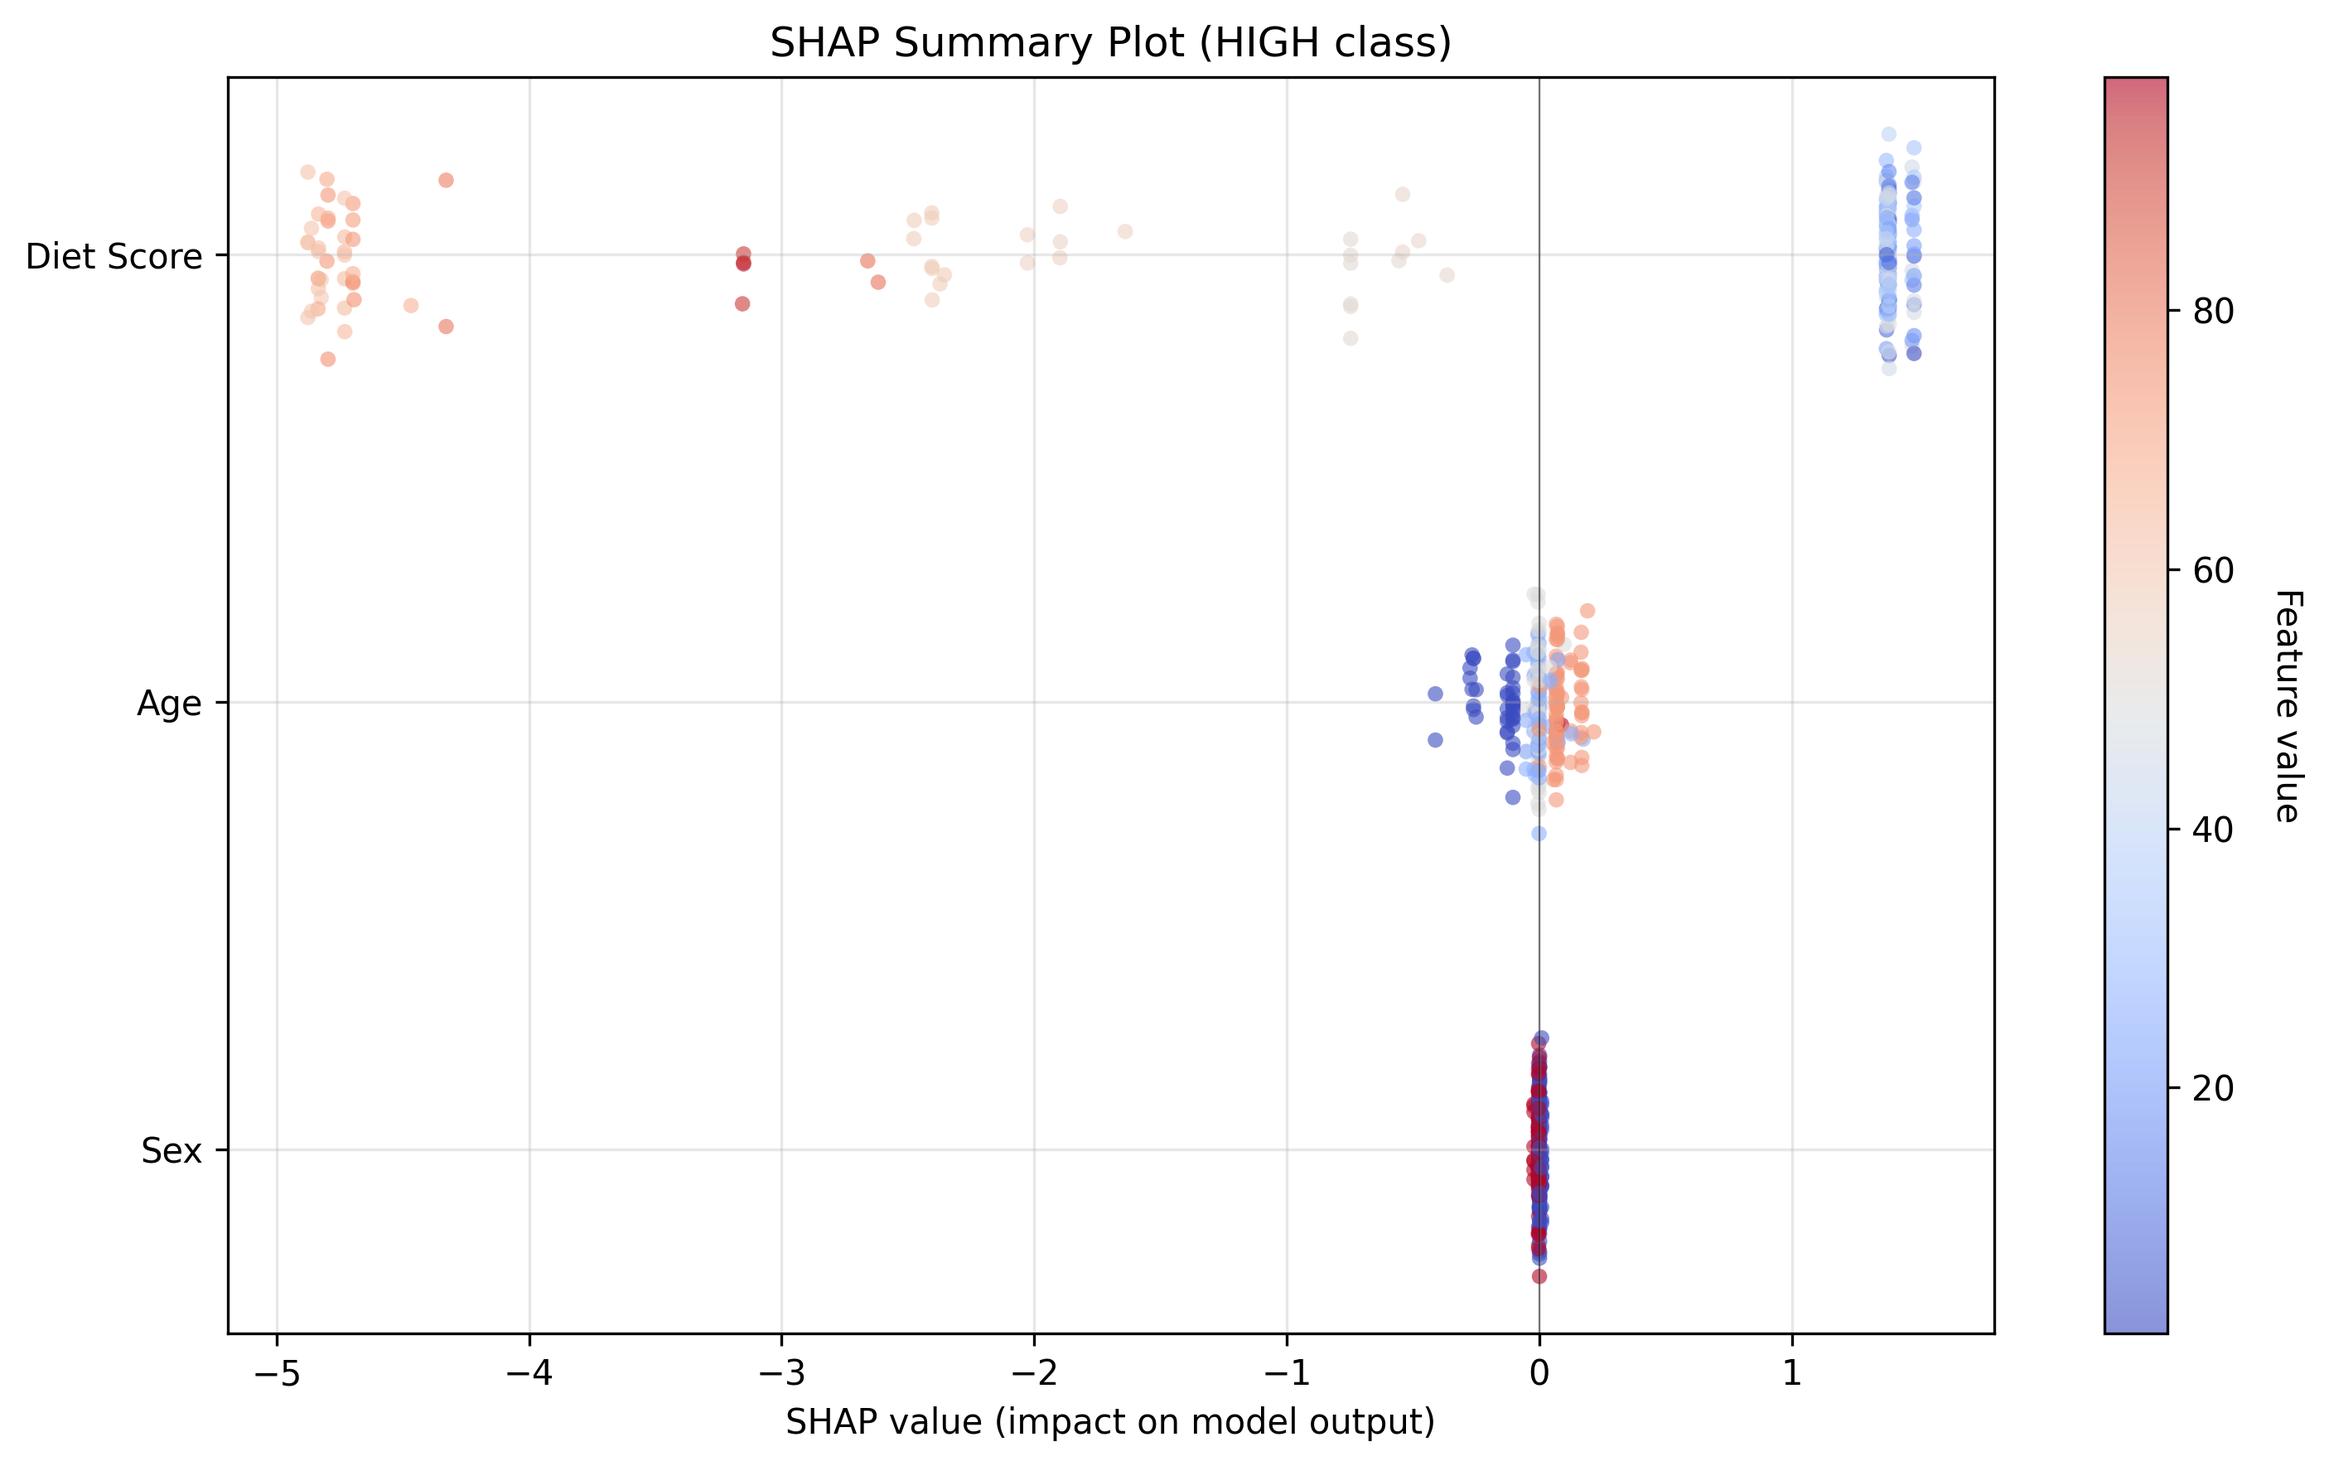
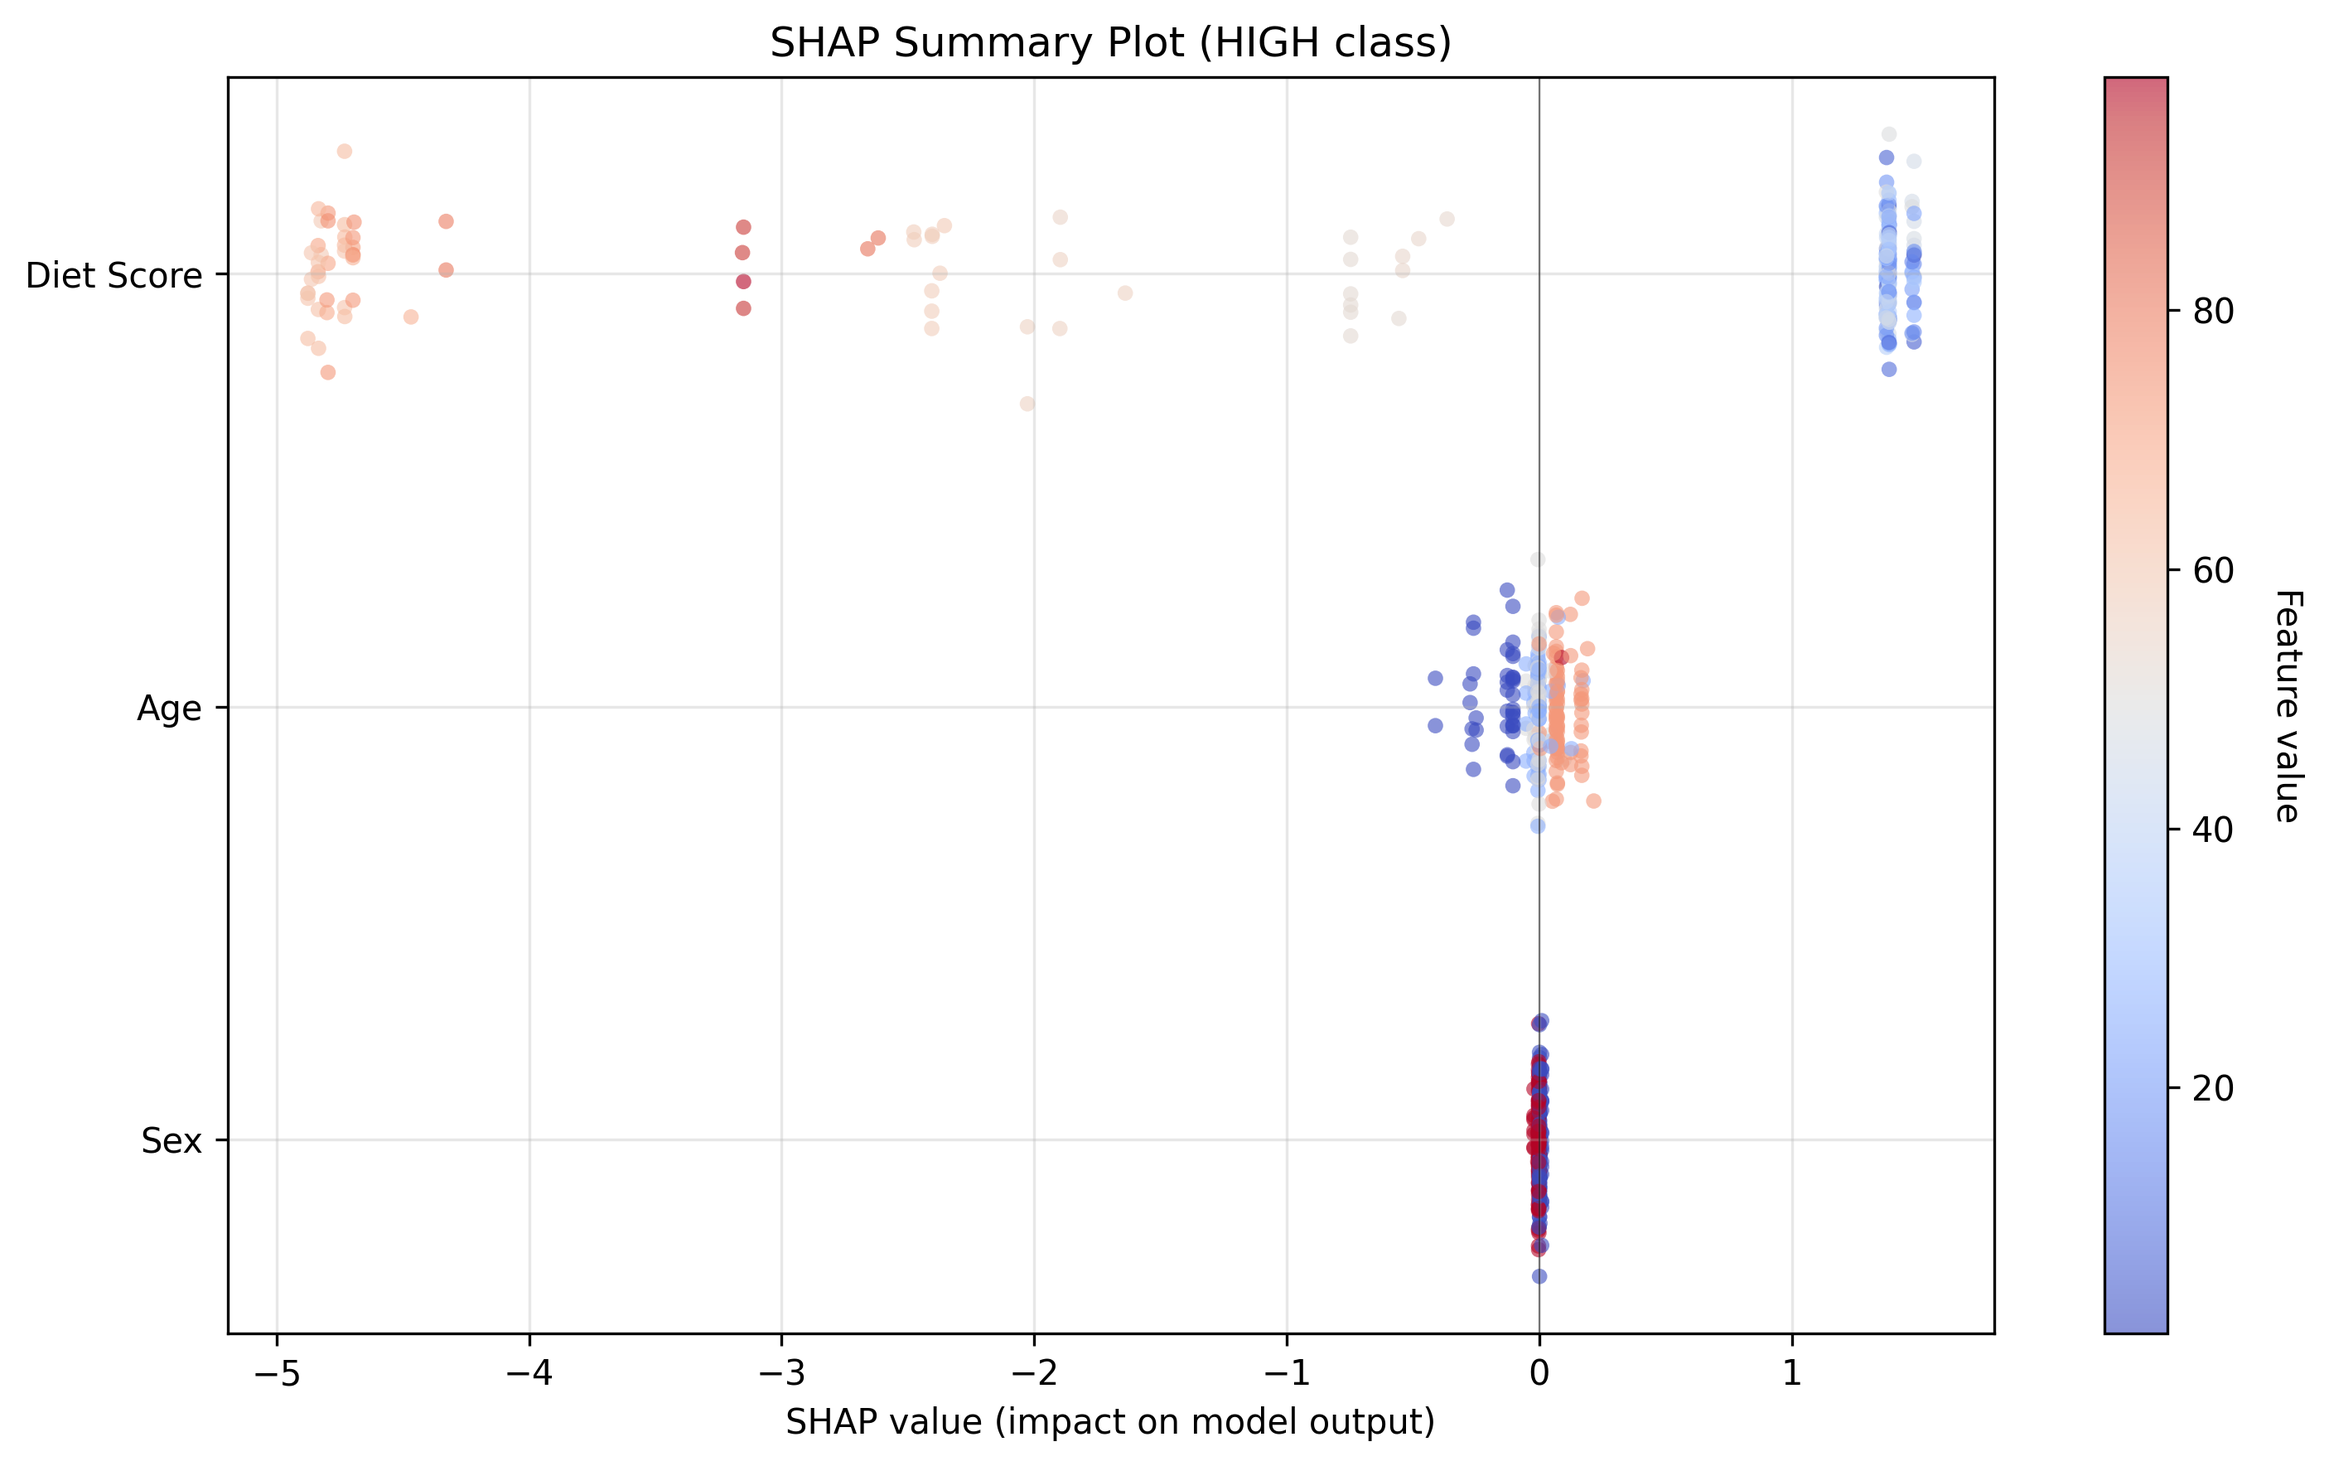
feat: add roc summary

diff --git a/evaluate_models.py b/evaluate_models.py
@@ -15,9 +15,11 @@ import matplotlib.pyplot as plt
 from sklearn.model_selection import train_test_split
 from sklearn.metrics import (
     accuracy_score,
+    auc,
     classification_report,
     confusion_matrix,
     ConfusionMatrixDisplay,
+    roc_curve,
 )
 
 try:
@@ -54,6 +56,16 @@ CONFUSION_MATRIX_IMG = "confusion_matrix.png"
 FEATURE_IMPORTANCE_CSV = "feature_importances.csv"
 FEATURE_IMPORTANCE_IMG = "feature_importance.png"
 SHAP_SUMMARY_IMG = "shap_summary.png"
+ROC_SUMMARY_CSV = "roc_auc_summary.csv"
+ROC_COMPARISON_IMG = "roc_comparison.png"
+
+# Filename slug per model label (used for per-model ROC plots)
+ROC_PLOT_SLUGS = {
+    "Baseline LightGBM": "lgb_baseline",
+    "Tuned LightGBM": "lgb_tuned",
+    "Baseline XGBoost": "xgb_baseline",
+    "Tuned XGBoost": "xgb_tuned",
+}
 
 
 def load_dataset():
@@ -350,6 +362,135 @@ def save_shap_summary_plot(model, X_test, feature_names, output_path):
         plt.close('all')  # Clean up any partial plots
 
 
+def get_class_order(model, label_encoder=None):
+    """Return the list of class labels in the order corresponding to predict_proba columns."""
+    if not hasattr(model, "classes_"):
+        return None
+    classes = model.classes_
+    if label_encoder is not None:
+        classes = label_encoder.inverse_transform(classes)
+    return list(classes)
+
+
+def compute_one_vs_rest_roc(model, X_test, y_test, label_encoder=None):
+    """Compute one-vs-rest ROC curves and AUCs for every class the model knows.
+
+    Returns dict mapping class label -> {"fpr": ..., "tpr": ..., "auc": ..., "support": int}.
+    Returns None if the model lacks predict_proba.
+    """
+    if not hasattr(model, "predict_proba"):
+        return None
+
+    proba = model.predict_proba(X_test)
+    class_order = get_class_order(model, label_encoder=label_encoder)
+    if class_order is None or proba.shape[1] != len(class_order):
+        return None
+
+    y_arr = np.asarray(y_test)
+    results = {}
+    for col_idx, cls in enumerate(class_order):
+        y_binary = (y_arr == cls).astype(int)
+        support = int(y_binary.sum())
+        if support == 0 or support == len(y_binary):
+            # ROC undefined when one of the two binary classes is empty
+            continue
+        fpr, tpr, _ = roc_curve(y_binary, proba[:, col_idx])
+        results[str(cls)] = {
+            "fpr": fpr,
+            "tpr": tpr,
+            "auc": float(auc(fpr, tpr)),
+            "support": support,
+        }
+    return results
+
+
+def save_per_model_roc_plot(roc_data, output_path, title):
+    """Plot one-vs-rest ROC curves (all classes) for a single model on one figure."""
+    if not roc_data:
+        return
+    fig, ax = plt.subplots(figsize=(7, 6))
+    for cls in sorted(roc_data.keys()):
+        d = roc_data[cls]
+        ax.plot(d["fpr"], d["tpr"], lw=2, label=f"{cls} (AUC = {d['auc']:.3f}, n = {d['support']})")
+    ax.plot([0, 1], [0, 1], "k--", lw=1, alpha=0.5, label="Random (AUC = 0.500)")
+    ax.set_xlim(-0.01, 1.01)
+    ax.set_ylim(-0.01, 1.05)
+    ax.set_xlabel("False Positive Rate (1 - Specificity)")
+    ax.set_ylabel("True Positive Rate (Sensitivity)")
+    ax.set_title(title)
+    ax.legend(loc="lower right", fontsize=9)
+    ax.grid(True, alpha=0.3)
+    plt.tight_layout()
+    plt.savefig(output_path, dpi=300, bbox_inches="tight")
+    plt.close()
+    print(f"ROC plot saved to {output_path}")
+
+
+def save_roc_comparison_plot(roc_lgb, roc_xgb, output_path, label_lgb, label_xgb):
+    """Compare two models' ROC curves side-by-side, one subplot per class."""
+    if not roc_lgb or not roc_xgb:
+        print("Skipping ROC comparison plot (missing data for one or both models).")
+        return
+
+    classes = sorted(set(roc_lgb.keys()) & set(roc_xgb.keys()))
+    if not classes:
+        print("Skipping ROC comparison plot (no overlapping classes).")
+        return
+
+    n = len(classes)
+    cols = 2
+    rows = (n + 1) // 2
+    fig, axes = plt.subplots(rows, cols, figsize=(11, 5 * rows), squeeze=False)
+    for i, cls in enumerate(classes):
+        ax = axes[i // cols][i % cols]
+        d_lgb = roc_lgb[cls]
+        d_xgb = roc_xgb[cls]
+        ax.plot(d_lgb["fpr"], d_lgb["tpr"], lw=2,
+                label=f"{label_lgb} (AUC = {d_lgb['auc']:.3f})", color="#1f77b4")
+        ax.plot(d_xgb["fpr"], d_xgb["tpr"], lw=2,
+                label=f"{label_xgb} (AUC = {d_xgb['auc']:.3f})", color="#d62728")
+        ax.plot([0, 1], [0, 1], "k--", lw=1, alpha=0.5)
+        ax.set_xlim(-0.01, 1.01)
+        ax.set_ylim(-0.01, 1.05)
+        ax.set_xlabel("False Positive Rate")
+        ax.set_ylabel("True Positive Rate")
+        ax.set_title(f"Class: {cls} (n = {d_lgb['support']})")
+        ax.legend(loc="lower right", fontsize=9)
+        ax.grid(True, alpha=0.3)
+
+    # Hide any unused subplot
+    for j in range(n, rows * cols):
+        axes[j // cols][j % cols].axis("off")
+
+    plt.suptitle(f"ROC Comparison: {label_lgb} vs. {label_xgb} (one-vs-rest)", y=1.0)
+    plt.tight_layout()
+    plt.savefig(output_path, dpi=300, bbox_inches="tight")
+    plt.close()
+    print(f"ROC comparison plot saved to {output_path}")
+
+
+def build_roc_summary_rows(label, roc_data, total_support):
+    """Build per-class + macro/weighted summary rows for a single model."""
+    if not roc_data:
+        return []
+    rows = []
+    for cls in sorted(roc_data.keys()):
+        d = roc_data[cls]
+        rows.append({
+            "model": label,
+            "class": cls,
+            "auc": round(d["auc"], 4),
+            "support": d["support"],
+        })
+    aucs = np.array([d["auc"] for d in roc_data.values()])
+    supports = np.array([d["support"] for d in roc_data.values()])
+    macro = float(aucs.mean())
+    weighted = float(np.average(aucs, weights=supports)) if supports.sum() > 0 else float("nan")
+    rows.append({"model": label, "class": "MACRO", "auc": round(macro, 4), "support": total_support})
+    rows.append({"model": label, "class": "WEIGHTED", "auc": round(weighted, 4), "support": total_support})
+    return rows
+
+
 def main():
     X, y = load_dataset()
 
@@ -414,6 +555,52 @@ def main():
 
     shap_path = os.path.join(OUTPUT_DIR, SHAP_SUMMARY_IMG)
     save_shap_summary_plot(primary_result["model"], X_test, feature_names, shap_path)
+
+    # ----- ROC / AUC analysis (one-vs-rest, all models) -----
+    print("\n===== ROC / AUC analysis =====")
+    summary_rows = []
+    roc_by_label = {}
+    total_support = len(y_test)
+    for label, result in evaluation_results.items():
+        roc_data = compute_one_vs_rest_roc(
+            result["model"], X_test, y_test, label_encoder=result.get("encoder")
+        )
+        if not roc_data:
+            print(f"Skipping {label} (no predict_proba or class mismatch).")
+            continue
+        roc_by_label[label] = roc_data
+
+        # Per-model ROC plot
+        slug = ROC_PLOT_SLUGS.get(label, label.lower().replace(" ", "_"))
+        plot_path = os.path.join(OUTPUT_DIR, f"roc_curves_{slug}.png")
+        save_per_model_roc_plot(roc_data, plot_path, f"ROC Curves (one-vs-rest) — {label}")
+
+        # Summary print
+        per_class = {cls: round(d["auc"], 4) for cls, d in roc_data.items()}
+        aucs = np.array([d["auc"] for d in roc_data.values()])
+        supports = np.array([d["support"] for d in roc_data.values()])
+        macro = aucs.mean()
+        weighted = np.average(aucs, weights=supports) if supports.sum() > 0 else float("nan")
+        print(f"{label}: per-class AUC = {per_class} | macro = {macro:.4f} | weighted = {weighted:.4f}")
+
+        summary_rows.extend(build_roc_summary_rows(label, roc_data, total_support))
+
+    if summary_rows:
+        summary_df = pd.DataFrame(summary_rows)
+        summary_csv = os.path.join(OUTPUT_DIR, ROC_SUMMARY_CSV)
+        summary_df.to_csv(summary_csv, index=False)
+        print(f"ROC AUC summary saved to {summary_csv}")
+
+    # Tuned LightGBM vs Tuned XGBoost head-to-head ROC comparison
+    if "Tuned LightGBM" in roc_by_label and "Tuned XGBoost" in roc_by_label:
+        comparison_path = os.path.join(OUTPUT_DIR, ROC_COMPARISON_IMG)
+        save_roc_comparison_plot(
+            roc_by_label["Tuned LightGBM"],
+            roc_by_label["Tuned XGBoost"],
+            comparison_path,
+            "Tuned LightGBM",
+            "Tuned XGBoost",
+        )
 
 
 if __name__ == "__main__":

diff --git a/README.md b/README.md
@@ -168,7 +168,29 @@ Both gradient-boosting models were trained and tuned under identical protocols (
 - **LightGBM is stronger on the boundary classes (LOW, MODERATE)**, the cells most relevant to clinical triage, where the leaf-wise growth strategy appears to capture the narrow dietary-pattern differences better.
 - **XGBoost is stronger on HIGH and NO**, the two extremes of the risk scale, with marginally more conservative HIGH precision (0.99 vs. 0.98) and a notable improvement on NO (F1 0.94 vs. 0.88).
 
-**Choice of primary model.** LightGBM remains the primary model because (1) its advantage is concentrated on the MODERATE and LOW classes, which are the analytically harder cells and the most informative for early intervention, and (2) macro-F1 (which weights all classes equally) is marginally higher (0.82 vs. 0.81). XGBoost is retained as a published, identically-tuned benchmark to demonstrate that the result is not framework-dependent.
+### Threshold-Independent Comparison: ROC / AUC Analysis
+
+F1-score and accuracy are computed at a fixed 0.5 probability cutoff (the default for `predict()`). To evaluate **how well each model ranks children by risk independent of the chosen threshold**, one-vs-rest ROC curves and AUCs were computed for each class on the test set.
+
+**Per-class AUC (one-vs-rest):**
+
+| Risk Category (n) | Tuned LightGBM | Tuned XGBoost |
+|---|---|---|
+| **HIGH** (189)     | 0.973 | **0.988** |
+| **LOW** (19)       | **0.988** | 0.983 |
+| **MODERATE** (15)  | 0.914 | **0.948** |
+| **NO** (17)        | 0.989 | **0.992** |
+| **Macro AUC**      | 0.966 | **0.978** |
+| **Weighted AUC**   | 0.971 | **0.985** |
+
+**Interpretation.** Both models discriminate exceptionally well — every per-class AUC is above 0.91, and most are above 0.97. Importantly, the AUC view **inverts** the F1 picture for the MODERATE class: while LightGBM has the higher F1 there (0.62 vs. 0.57), XGBoost has the higher AUC (0.948 vs. 0.914). The discrepancy is informative — it means XGBoost is producing **better-ordered probability rankings** for MODERATE-risk children, but its predictions at the default 0.5 cutoff are worse on that class. With threshold tuning (e.g., choosing a lower probability threshold for the MODERATE class), XGBoost could likely close or reverse the F1 gap.
+
+**Choice of primary model.** LightGBM remains the primary model for clinical deployment because:
+
+1. **Default-threshold performance** matters in practice — most deployed classifiers use `predict()` rather than calibrated thresholds, and LightGBM's F1 advantage on MODERATE/LOW translates directly to fewer mis-triaged children.
+2. **Macro-F1 at default threshold is higher** (0.82 vs. 0.81), reflecting more balanced per-class performance without operating-point tuning.
+
+XGBoost is retained as a published, identically-tuned benchmark and surfaces an important nuance: its **higher macro AUC (0.978 vs. 0.966) suggests headroom for further gains via threshold calibration** — a candidate direction for future work if MODERATE-class recall becomes a clinical priority.
 
 ### Feature Importance
 
@@ -250,6 +272,16 @@ Bar chart showing the relative contribution of each feature to the model's predi
 
 SHAP (SHapley Additive exPlanations) values illustrating how each feature impacts individual predictions, with color indicating feature values and horizontal position showing positive or negative influence on HIGH-risk classification.
 
+### 4. ROC Curves (Tuned LightGBM)
+![ROC Tuned LightGBM](model_outputs/roc_curves_lgb_tuned.png)
+
+One-vs-rest ROC curves for each risk class, with per-class AUC. Curves close to the top-left corner indicate strong discrimination; the diagonal represents a random classifier (AUC = 0.5).
+
+### 5. ROC Comparison: LightGBM vs. XGBoost
+![ROC Comparison](model_outputs/roc_comparison.png)
+
+Side-by-side ROC curves for the two tuned gradient-boosting models, one subplot per risk class. This visualization makes the threshold-independent ranking quality of each model directly comparable per class.
+
 ---
 
 ## 🛠 Technical Implementation
@@ -289,6 +321,12 @@ drushika/
     ├── feature_importance.png      # Feature importance visualization
     ├── feature_importances.csv     # Feature importance rankings
     ├── shap_summary.png            # SHAP interpretability plot
+    ├── roc_curves_lgb_tuned.png    # Per-class ROC curves (tuned LightGBM)
+    ├── roc_curves_xgb_tuned.png    # Per-class ROC curves (tuned XGBoost)
+    ├── roc_curves_lgb_baseline.png # Per-class ROC curves (baseline LightGBM)
+    ├── roc_curves_xgb_baseline.png # Per-class ROC curves (baseline XGBoost)
+    ├── roc_comparison.png          # Tuned LGBM vs Tuned XGBoost ROC overlay
+    ├── roc_auc_summary.csv         # Per-class + macro/weighted AUC for all models
     └── results.md                  # Detailed performance metrics
 ```
 
@@ -369,7 +407,8 @@ The tuned LightGBM model demonstrates **clinically viable performance** for auto
 
 ### Model Evaluation
 - Test samples: 240 (30%)
-- Metrics: Accuracy, Precision, Recall, F1-score per class
+- Threshold-dependent metrics: Accuracy, Precision, Recall, F1-score per class
+- Threshold-independent metrics: One-vs-rest ROC curves, per-class AUC, macro/weighted AUC
 - Interpretability: Feature importance (built-in) + SHAP values
 
 ### Software Stack
